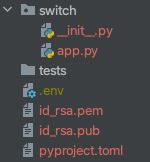
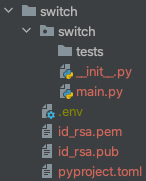
Added sample for skill conversion

diff --git a/docs/Webex Assistant SDK.md b/docs/Webex Assistant SDK.md
@@ -64,7 +64,7 @@ pyenv local webex-skills
 We can now install the SDK using `pip`:
 
 ```bash
-pip install assistant-skills-sdk
+pip install webex-skills
 ```
 
 We should be all set, we'll use the SDK later in this guide. You will need to work inside the `webex-skills` virtual
@@ -316,16 +316,17 @@ Options:
 
 Let's now modify our skill so it does what we want: remember we want this skill to turn on and off the office lights. 
 
-Simply update the `app.py` file with the following 2 handlers:
+Simply update the `main.py` file with the following 2 handlers:
 
 ```python
 @api.handle(pattern=r'.*\son\s?.*')
 async def turn_on(current_state: DialogueState) -> DialogueState:
     new_state = current_state.copy()
 
-    # Call lights API to turn on your light here.
-
     text = 'Ok, turning lights on.'
+    
+      # Call lights API to turn on your light here.
+    
     new_state.directives = [
         responses.Reply(text),
         responses.Speak(text),
@@ -339,9 +340,10 @@ async def turn_on(current_state: DialogueState) -> DialogueState:
 async def turn_off(current_state: DialogueState) -> DialogueState:
     new_state = current_state.copy()
 
-    # Call lights API to turn off your light here.
-
     text = 'Ok, turning lights off.'
+    
+    # Call lights API to turn off your light here.
+    
     new_state.directives = [
         responses.Reply(text),
         responses.Speak(text),
@@ -639,16 +641,110 @@ In the `@api.handle` decorators, add the intent you want to handle instead of th
 
 ```python
 @api.handle(intent='turn_lights_on')
-async def turn_on(current_state: DialogueState) -> DialogueState:
+async def turn_on(current_state: DialogueState, processed_query: ProcessedQuery) -> DialogueState:
 ...
 
 @api.handle(intent='turn_lights_off')
-async def turn_off(current_state: DialogueState) -> DialogueState:
+async def turn_off(current_state: DialogueState, processed_query: ProcessedQuery) -> DialogueState:
 ```
 
-Finally, add some logic to complement the response with the location entity if available:
+Finally, add some logic to complement the response with the location entity if available. In the `turn_on` handler, 
+replace the line:
 
-TODO: Add location entities
+```python
+    text = 'Ok, turning lights on.'
+```
+
+With the following logic:
+
+```python
+    if len(processed_query.entities) > 0:
+        location = processed_query.entities[0]['text']
+        if location == 'all':
+            text = 'Ok, turning all lights on.'
+        else:
+            text = f'Ok, turning the {location} lights on.'
+    else:
+        text = 'Ok, turning all lights on.'
+```
+
+Do the corresponding change to the `turn_off` handler.
+
+You will also need to import the new classes you are using: `MindmeldAPI` and `ProcessedQuery`.
+
+That's it! We now have NLP support in our skill. 
+
+All in all your `main.py` should look like this:
+
+```python
+from webex_assistant_sdk.api import MindmeldAPI
+from webex_assistant_sdk.dialogue import responses
+from webex_assistant_sdk.models.mindmeld import DialogueState, ProcessedQuery
+
+api = MindmeldAPI()
+
+
+@api.handle(default=True)
+async def greet(current_state: DialogueState) -> DialogueState:
+    text = 'Hello I am a super simple skill'
+    new_state = current_state.copy()
+
+    new_state.directives = [
+        responses.Reply(text),
+        responses.Speak(text),
+        responses.Sleep(10),
+    ]
+
+    return new_state
+
+
+@api.handle(intent='turn_lights_on')
+async def turn_on(current_state: DialogueState, processed_query: ProcessedQuery) -> DialogueState:
+    new_state = current_state.copy()
+
+    if len(processed_query.entities) > 0:
+        location = processed_query.entities[0]['text']
+        if location == 'all':
+            text = 'Ok, turning all lights on.'
+        else:
+            text = f'Ok, turning the {location} lights on.'
+    else:
+        text = 'Ok, turning all lights on.'
+
+    # Call lights API to turn on your light here.
+
+    new_state.directives = [
+        responses.Reply(text),
+        responses.Speak(text),
+        responses.Sleep(10),
+    ]
+
+    return new_state
+
+
+@api.handle(intent='turn_lights_off')
+async def turn_off(current_state: DialogueState, processed_query: ProcessedQuery) -> DialogueState:
+    new_state = current_state.copy()
+
+    if len(processed_query.entities) > 0:
+        location = processed_query.entities[0]['text']
+        if location == 'all':
+            text = 'Ok, turning all lights off.'
+        else:
+            text = f'Ok, turning the {location} lights off.'
+    else:
+        text = 'Ok, turning all lights off.'
+
+    # Call lights API to turn off your light here.
+
+    new_state.directives = [
+        responses.Reply(text),
+        responses.Speak(text),
+        responses.Sleep(10),
+    ]
+
+    return new_state
+```
 
 ### Testing the Skill
 
@@ -668,9 +764,187 @@ We can now run our new skill:
 webex-skills skills run switch
 ```
 
-And use the invoke method to send a couple commands:
+Finally, we can use the invoke method to send a couple commands:
 
-TODO: Add commands
+```bash
+$ webex-skills skills invoke switch
+Enter commands below (Ctl+C to exit)
+>> hi
[1 lines of base64/hex data omitted]
+  'directives': [ {'name': 'reply', 'payload': {'text': 'Hello I am a super simple skill'}, 'type': 'action'},
+                  {'name': 'speak', 'payload': {'text': 'Hello I am a super simple skill'}, 'type': 'action'},
+                  {'name': 'sleep', 'payload': {'delay': 10}, 'type': 'action'}],
+  'frame': {},
+  'history': [ { 'context': {},
+                 'directives': [],
+                 'frame': {},
+                 'history': [],
+                 'params': { 'allowed_intents': [],
+                             'dynamic_resource': {},
+                             'language': 'en',
+                             'locale': None,
+                             'target_dialogue_state': None,
+                             'time_zone': 'UTC',
+                             'timestamp': 1634934720},
+                 'text': 'hi'}],
+  'params': { 'allowed_intents': [],
+              'dynamic_resource': {},
+              'language': 'en',
+              'locale': None,
+              'target_dialogue_state': None,
+              'time_zone': 'UTC',
+              'timestamp': 1634934720}}
+>> turn on the lights
[1 lines of base64/hex data omitted]
+  'directives': [ {'name': 'reply', 'payload': {'text': 'Ok, turning all lights on.'}, 'type': 'action'},
+                  {'name': 'speak', 'payload': {'text': 'Ok, turning all lights on.'}, 'type': 'action'},
+                  {'name': 'sleep', 'payload': {'delay': 10}, 'type': 'action'}],
+  'frame': {},
+  'history': [ { 'context': {},
+                 'directives': [],
+                 'frame': {},
+                 'history': [],
+                 'params': { 'allowed_intents': [],
+                             'dynamic_resource': {},
+                             'language': 'en',
+                             'locale': None,
+                             'target_dialogue_state': None,
+                             'time_zone': 'UTC',
+                             'timestamp': 1634934720},
+                 'text': 'hi'},
+               { 'context': {},
+                 'directives': [],
+                 'frame': {},
+                 'history': [],
+                 'params': { 'allowed_intents': [],
+                             'dynamic_resource': {},
+                             'language': 'en',
+                             'locale': None,
+                             'target_dialogue_state': None,
+                             'time_zone': 'UTC',
+                             'timestamp': 1634934720},
+                 'text': 'turn on the lights'}],
+  'params': { 'allowed_intents': [],
+              'dynamic_resource': {},
+              'language': 'en',
+              'locale': None,
+              'target_dialogue_state': None,
+              'time_zone': 'UTC',
+              'timestamp': 1634934720}}
+>> turn off the kitchen lights
[1 lines of base64/hex data omitted]
+  'directives': [ {'name': 'reply', 'payload': {'text': 'Ok, turning the kitchen lights off.'}, 'type': 'action'},
+                  {'name': 'speak', 'payload': {'text': 'Ok, turning the kitchen lights off.'}, 'type': 'action'},
+                  {'name': 'sleep', 'payload': {'delay': 10}, 'type': 'action'}],
+  'frame': {},
+  'history': [ { 'context': {},
+                 'directives': [],
+                 'frame': {},
+                 'history': [],
+                 'params': { 'allowed_intents': [],
+                             'dynamic_resource': {},
+                             'language': 'en',
+                             'locale': None,
+                             'target_dialogue_state': None,
+                             'time_zone': 'UTC',
+                             'timestamp': 1634934720},
+                 'text': 'hi'},
+               { 'context': {},
+                 'directives': [],
+                 'frame': {},
+                 'history': [],
+                 'params': { 'allowed_intents': [],
+                             'dynamic_resource': {},
+                             'language': 'en',
+                             'locale': None,
+                             'target_dialogue_state': None,
+                             'time_zone': 'UTC',
+                             'timestamp': 1634934720},
+                 'text': 'turn on the lights'},
+               { 'context': {},
+                 'directives': [],
+                 'frame': {},
+                 'history': [],
+                 'params': { 'allowed_intents': [],
+                             'dynamic_resource': {},
+                             'language': 'en',
+                             'locale': None,
+                             'target_dialogue_state': None,
+                             'time_zone': 'UTC',
+                             'timestamp': 1634934720},
+                 'text': 'turn off the kitchen lights'}],
+  'params': { 'allowed_intents': [],
+              'dynamic_resource': {},
+              'language': 'en',
+              'locale': None,
+              'target_dialogue_state': None,
+              'time_zone': 'UTC',
+              'timestamp': 1634934720}}
+>> turn off all the lights
[1 lines of base64/hex data omitted]
+  'directives': [ {'name': 'reply', 'payload': {'text': 'Ok, turning all lights off.'}, 'type': 'action'},
+                  {'name': 'speak', 'payload': {'text': 'Ok, turning all lights off.'}, 'type': 'action'},
+                  {'name': 'sleep', 'payload': {'delay': 10}, 'type': 'action'}],
+  'frame': {},
+  'history': [ { 'context': {},
+                 'directives': [],
+                 'frame': {},
+                 'history': [],
+                 'params': { 'allowed_intents': [],
+                             'dynamic_resource': {},
+                             'language': 'en',
+                             'locale': None,
+                             'target_dialogue_state': None,
+                             'time_zone': 'UTC',
+                             'timestamp': 1634934720},
+                 'text': 'hi'},
+               { 'context': {},
+                 'directives': [],
+                 'frame': {},
+                 'history': [],
+                 'params': { 'allowed_intents': [],
+                             'dynamic_resource': {},
+                             'language': 'en',
+                             'locale': None,
+                             'target_dialogue_state': None,
+                             'time_zone': 'UTC',
+                             'timestamp': 1634934720},
+                 'text': 'turn on the lights'},
+               { 'context': {},
+                 'directives': [],
+                 'frame': {},
+                 'history': [],
+                 'params': { 'allowed_intents': [],
+                             'dynamic_resource': {},
+                             'language': 'en',
+                             'locale': None,
+                             'target_dialogue_state': None,
+                             'time_zone': 'UTC',
+                             'timestamp': 1634934720},
+                 'text': 'turn off the kitchen lights'},
+               { 'context': {},
+                 'directives': [],
+                 'frame': {},
+                 'history': [],
+                 'params': { 'allowed_intents': [],
+                             'dynamic_resource': {},
+                             'language': 'en',
+                             'locale': None,
+                             'target_dialogue_state': None,
+                             'time_zone': 'UTC',
+                             'timestamp': 1634934720},
+                 'text': 'turn off all the lights'}],
+  'params': { 'allowed_intents': [],
+              'dynamic_resource': {},
+              'language': 'en',
+              'locale': None,
+              'target_dialogue_state': None,
+              'time_zone': 'UTC',
+              'timestamp': 1634934720}}
+>>
+```
+
+We have now converted a `Simple Skill` into a `MindMeld Skill`.
 
 ## Encryption
 
